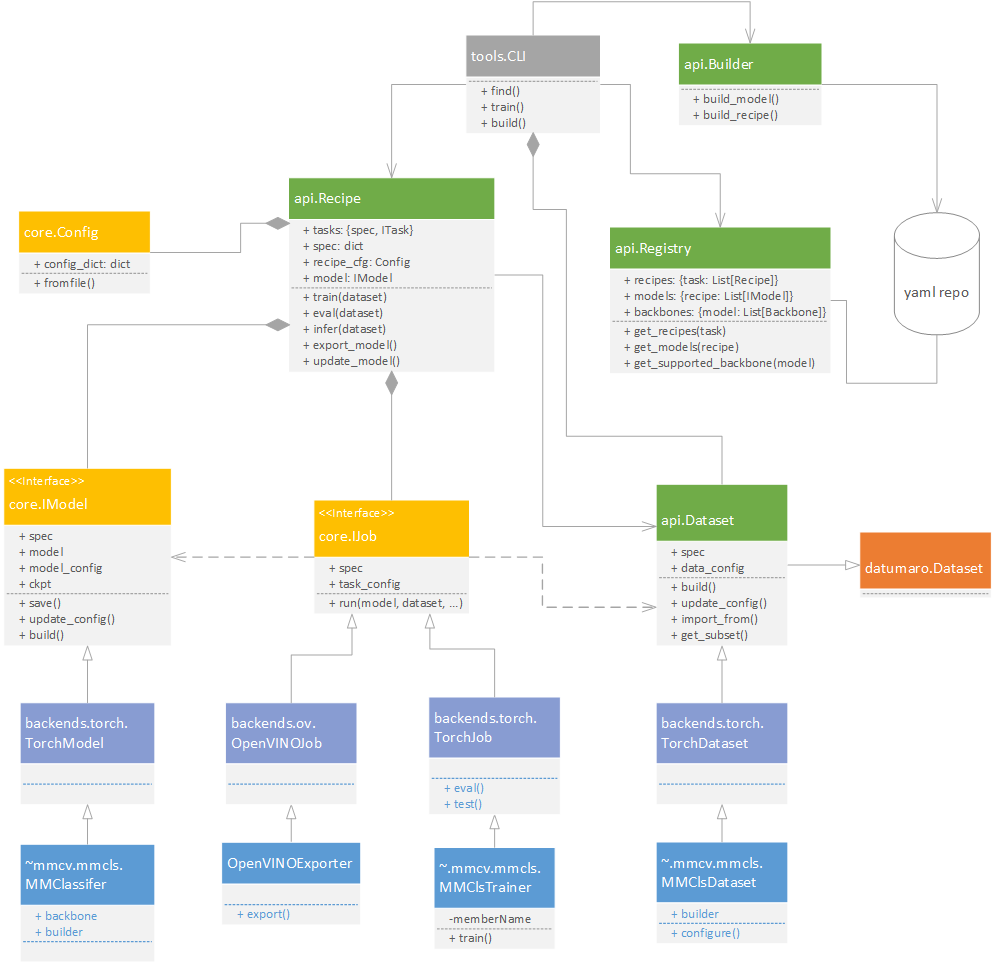
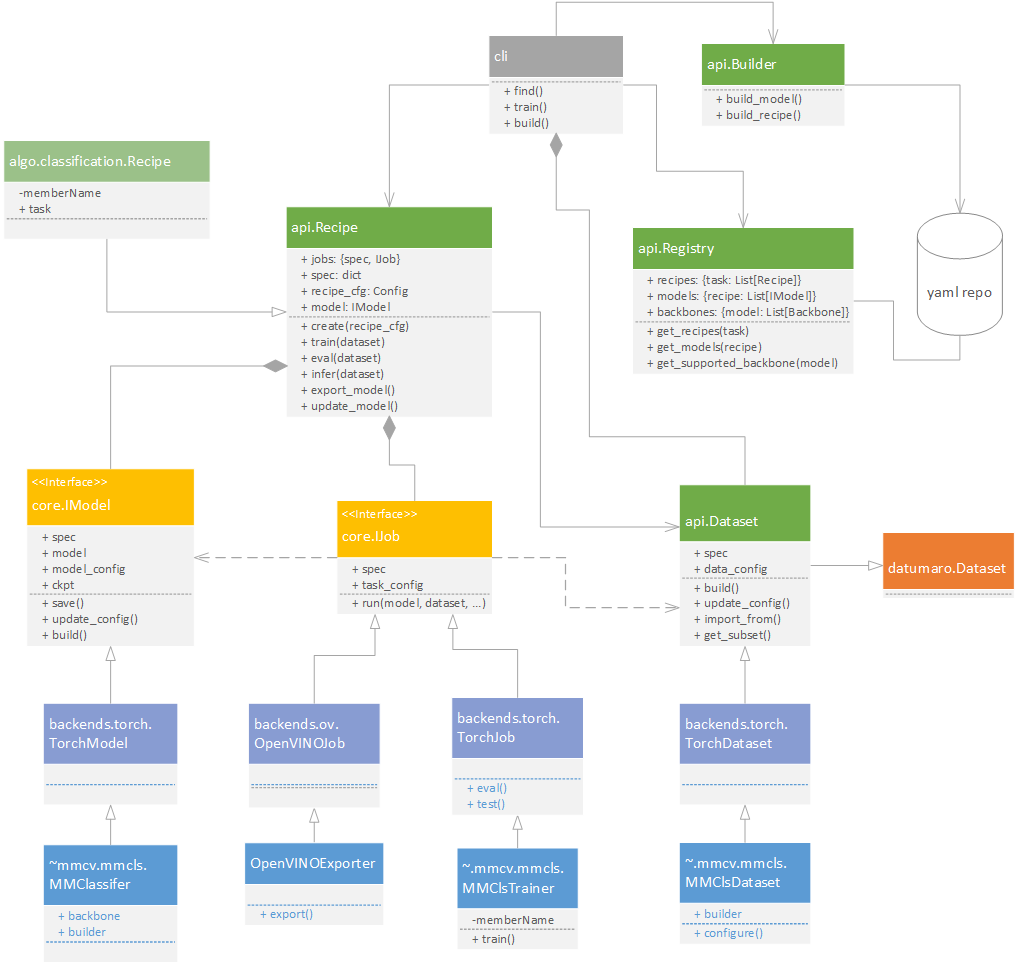
updated OTX.md

diff --git a/OTX.md b/OTX.md
@@ -1,53 +1,56 @@
 # OpenVINO Training eXtensions (OTX)
 
 # Overview
-OpenVINO Training eXtensions (OTX) is command-line interface (CLI) framework designed for low-code deep learning model training. OTX lets developers train/inference/optimize models with a diverse combination of model architectures and learning methods. For example, users can train a ResNet18 model for detection in a semi-supervised manner without worrying about setting these options manually. `otx build` and `otx train` CLI will automatically analyze users' dataset and do necessary tasks for training the model with best configuration. OTX provides the following features
+OpenVINO Training eXtensions (OTX) is command-line interface (CLI) framework designed for low-code deep learning model training. OTX lets developers train/inference/optimize models with a diverse combination of model architectures and learning methods. For example, users can train a ResNet18-based SSD ([Single Shot Detection](https://arxiv.org/abs/1512.02325)) model in a semi-supervised manner without worrying about setting a configuration manually. `otx build` and `otx train` commands will automatically analyze users' dataset and do necessary tasks for training the model with best configuration. OTX provides the following features:
 
 - Provide a set of pre-configured models for quick start
-    - `otx find` can help you quickly finds the best pre-configured models for common task types like classification, detection and segmentation.
+    - `otx find` helps you quickly finds the best pre-configured models for common task types like classification, detection and segmentation.
 - Configure and train a model from torchvision, [OpenVINO Model Zoo (OMZ)](https://github.com/openvinotoolkit/open_model_zoo)
     - `otx build` can help you configure your own model configuration based on torchvision and OpenVINO Model Zoo models. You can replace backbones and heads for your own preference.
 - Provide many learning methods like supervised, semi-supervised, imbalanced-learn, class-incremental, self-supervised representation learning
-    - `otx train` can help you automatically identify the best learning methods for your data and model. What you really need to do is to set your data (if you don't specify a model, the system will automatically set the best model for you as well). For example, if your dataset has long-tailed and partially-annoated bounding box annotations, OTX auto-configurator will choose a semi-supervised imbalanced-learning model with best configurable parameters. 
-- Fast automl of hyper-parameters
-    - OTX has an integrated, very efficient hyper-parameter optimization module. So, you don't need to worry about setting the right hyper-parameters. Through dataset proxy and hyper-parameter optimizer auto-configurator, you can get much faster hyper-parameter optimization, which is also configurable based on your computational budget.
+    - `otx build` helps you automatically identify the best learning methods for your data and model. All you need to do is to set your data (if you don't specify a model, the system will automatically set the best model for you as well). For example, if your dataset has long-tailed and partially-annotated bounding box annotations, OTX auto-configurator will choose a semi-supervised imbalanced-learning method, a proper model with best default parameters. 
+- Efficient hyper-parameter optimization
+    - OTX has an integrated, efficient hyper-parameter optimization module. So, you don't need to worry about searching right hyper-parameters. Through dataset proxy and built-in hyper-parameter optimizer, you can get much faster hyper-parameter optimization compared to other off-the-shelf tools.
 - Support most of widely-used annotation formats
-    - OTX uses [datumaro](https://github.com/openvinotoolkit/datumaro), which is designed for dataset building and transformation, as a default interface for dataset management. All supported formats by datumaro are also consumable by OTX without the need of explicit data conversion. If you wnat to build your own custom dataset format, you can do this via datumaro CLI and API.
+    - OTX uses [datumaro](https://github.com/openvinotoolkit/datumaro), which is designed for dataset building and transformation, as a default interface for dataset management. All supported formats by datumaro are also consumable by OTX without the need of explicit data conversion. If you want to build your own custom dataset format, you can do this via datumaro CLI and API.
 
 
 # Component view
-The diagram below illustrates key components in a high-level design. OTX has two layers: CLI and API. CLI is implemented as a combination of APIs, which consists of components for model management, dataset import/export/iteration, and job interface for inference/train/optimize. A recipe is a concrete combination of model and job interfaces, and takes dataset for best model training. OTX provides both pre-built recipes and models as well as mechanisms to build your own ones in a low-code manner.
+The diagram below illustrates key components in a high-level design (the colors correspond to [API class diagram](#otx-api)). OTX has two layers: CLI and API. CLI is implemented as a combination of APIs, which consists of components for model management, dataset import/export/iteration, and job interface for inference/train/optimize. A recipe is a concrete combination of model and job interfaces, and takes dataset for training a model. OTX provides both pre-built recipes and models as well as mechanisms to build your own ones in a low-code manner. OTX dataset API uses datumaro as a base class, and thus supports diverse annotation formats.
 
 <figure>
-<img src="docs/source/_images/high.png" width="800px">
+<img src="docs/source/_images/high.png" width="750px">
 <figcaption></figcaption>
 </figure>
 
 # Architecturally-significant use cases
-The diagram below shows architecturally-significant use cases. Basically, OTX use cases covers from model building to final deployment. Users can use OTX CLI for low-code model and training recipe building, training with dataset, and optimizing model performance for final deployment. Users can generate a self-contained package for exportable codes with a single command. API users can customize the built-in workflow for their purpose. For example, new learning methods can be registered or extending APIs for supporting other backends like TensorFlow or ONNX.
+The diagram below shows architecturally-significant use cases. Basically, OTX use cases cover from model building to final deployment. Users can use OTX CLI for finding/building models and recipes, training with dataset, and optimizing model performance for final deployment. Users also can generate a self-contained package for exportable codes with a single command. API users can customize the built-in workflow for their purpose. For example, new learning methods can be registered or users can extend APIs for supporting other backends like TensorFlow or ONNX.
 
 <figure>
-<img src="docs/source/_images/uc.png" width="600px">
+<img src="docs/source/_images/uc.png" width="550px">
 <figcaption></figcaption>
 </figure>
 
 # Terminology
 - **Model** is a collection of backbone, neck, and (task-specific) head which is ready to be consumed by training *Recipe* if *Dataset* is provided.
-- **Task** is a type of vision prediction consisting of classification, regression, detection, instance segmentation, anomaly detection, and so on. *Task* and *Model* are usually highly-related, and *Task* determines how the *Model* look like, especially for neck and head architecture.
-- **Job** is a type of computational workload consisting of inference, optimization, training, and other openvino related ones. Job is an elementary operation which can be called by a specific *Recipe*
+- **Task** is a type of vision prediction consisting of classification, regression, detection, instance segmentation, anomaly detection, and so on. *Task* and *Model* are usually highly-related, and *Task* determines how the *Model* looks like, especially for neck and head architecture.
+- **Job** is a type of computational workload like inference, optimization, training, and other openvino related ones. Job is an elementary operation which can be called by a specific *Recipe*. Job implementation depends on ML framework such as PyTorch or TensorFlow.
 - **Recipe** is the collection of *Job*, *Model*, and training related implementation like data augmentation strategy, batch composition policy, job cascading/switching, which are not bound for specific *Dataset*. For example, semi-supervised learning can be a recipe-level implementation since this requires multiple jobs as well as on-the-fly data scheduling with pseudo-labels.
 - **Config** is a descriptor of a specific *Recipe* based on Python dictionary type. It can be instantiated from YAML or XML formatted files.
 - **Dataset** corresponds to something like torch.utils.data.Dataset which can be used in torch.utils.data.DataLoader. Each dataset can be created for specific purposes like training or evaluation. *Dataset* should provide an iterator for constructing a batch for training and evaluation.
 
 
 # OTX CLI
-- `otx find`    
-- `otx build`
-- `otx train`
-- `otx optimize`
-- `otx export`
-- `otx demo`
-- `otx deploy`
+The table below shows OTX CLIs and their API mappings. In most cases, users simply put their dataset and run train CLI for training a model.
+
+The following command will analyze a dataset and auto-generate a training configuration (recipe.yaml).
+```
+otx build <data.yaml>
+```
+Users can train a model with the generated tranining configuration.
+```
+otx build <recipe.yaml> <data.yaml>
+```
 
 |command|argument|API mapping|result(return)|
 |---|---|---|---|
@@ -60,19 +63,25 @@ The diagram below shows architecturally-significant use cases. Basically, OTX us
 |   |`--recipe <data.yaml>`|`Builder.build_recipe(data)`|analyze data and generate best recipe yaml automatically and dump it to user’s workspace|
 |   |`--recipe <recipe.yaml> --model <model.yaml>`|`Builder.build_recipe(recipe, model)`|*model*_recipe.yaml will be added to user’s workspace after updating recipe.model attribute to the given *model*|
 |`otx train`|`<recipe.yaml> <data.yaml>`|`Recipe.train(data)`|path to model ckpt trained on *data*|
-|`otx eval`|`<path-to-ckpt> <data.yaml>`[^1]|`Recipe.eval(data)`|evaluation (if there is ground-truth) and/or prediction result on *data*|
+|`otx eval`|`<path-to-ckpt> <data.yaml>`<sup>[1](#note1)</sup>|`Recipe.eval(data)`|evaluation (if there is ground-truth) and/or prediction result on *data*|
 |   |`<path-to-ckpt> <path-to-input>`|`Recipe.eval(input)`|prediction result on *input* (typically image)|
 |   |~~`<path-to-ckpt> <device>`~~|~~`Recipe.eval(device)`~~|~~prediction result on *device* (typically camera)~~|
-|`otx optimize`|`<path-to-ckpt> <type-str> <data.yaml>`|`Recipe.optimize(type, data)`|run *type* of optimization to the given *ckpt*[^2]|
+|`otx optimize`|`<path-to-ckpt> <type-str> <data.yaml>`|`Recipe.optimize(type, data)`|run *type* of optimization to the given *ckpt*<sup>[2](#note2)</sup>|
 |`otx export`|`<path-to-ckpt>`|`Recipe.export()`|export *ckpt* model to OpenVINO IR (xml and bin files)|
 |~~`otx demo`~~|   |  |  |
 |`otx deploy`|`<path-to-ckpt>`|`Recipe.deploy()`|create a zip file containing all exportable codes in a self-contained manner. This includes both PyTorch and OpenVINO inferences|
 
-[^1]ckpt file has a metadata for recipe information. For more information, refer to sequence diagram in OTX API.
+<a name="#note1"><sup>1</sup></a>ckpt file has a metadata for recipe information. For more information, refer to sequence diagram in OTX API.
 
-[^2]For more information on optimization types, refer to [OpenVINO Model Optimization Guide](https://docs.openvino.ai/latest/openvino_docs_model_optimization_guide.html).
+<a name="#note2"><sup>2</sup></a>For more information on optimization types, refer to [OpenVINO Model Optimization Guide](https://docs.openvino.ai/latest/openvino_docs_model_optimization_guide.html).
 
-# `otx build` and `otx train` are all you need (recipe auto-configurator)
+## `otx build` is all you need (recipe auto-configurator)
+One of unique characteristics of OTX features is recipe auto-configurator. Unlike other AI training toolkits, OTX provides an automated way of setting training-related stuffs by analyzing users' dataset. This includes task type, model architecture, learning method and hyper-parameters. Among them, hyper-parameters are tuned further by automatic hyper-parameter optimization module in later stages of training. Users can directly edit recipe.yaml file for customization. This auto-configurator also provides estimated times for training and inference so that users can review the configuration before triggering actual jobs.
+
+<figure>
+<img src="docs/source/_images/autoconfig.png" width="800px">
+<figcaption></figcaption>
+</figure>
 
 # OTX API
 
@@ -93,19 +102,19 @@ OTX API consists of three component groups. The first group defines entities for
 <figcaption></figcaption>
 </figure>
 
-### API sequence for training
+## API sequence for training
 <figure>
 <img src="docs/source/_images/seq-train.png" width="1200px">
 <figcaption></figcaption>
 </figure>
 
-### API sequence for evaluation (or inference)
+## API sequence for evaluation (or inference)
 <figure>
 <img src="docs/source/_images/seq-eval.png" width="1200px">
 <figcaption></figcaption>
 </figure>
 
-### API sequence for model and recipe building
+## API sequence for model and recipe building
 <figure>
 <img src="docs/source/_images/seq-build.png" width="800px">
 <figcaption></figcaption>
